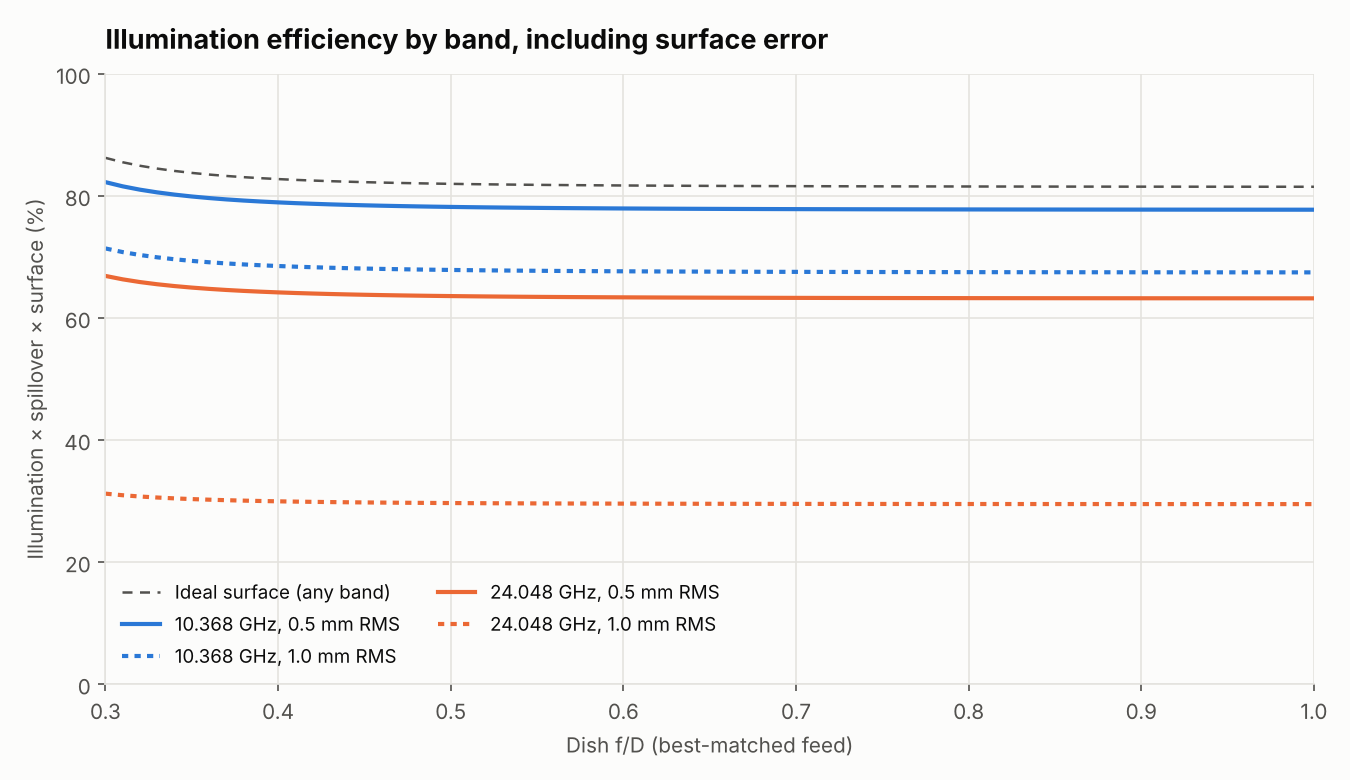
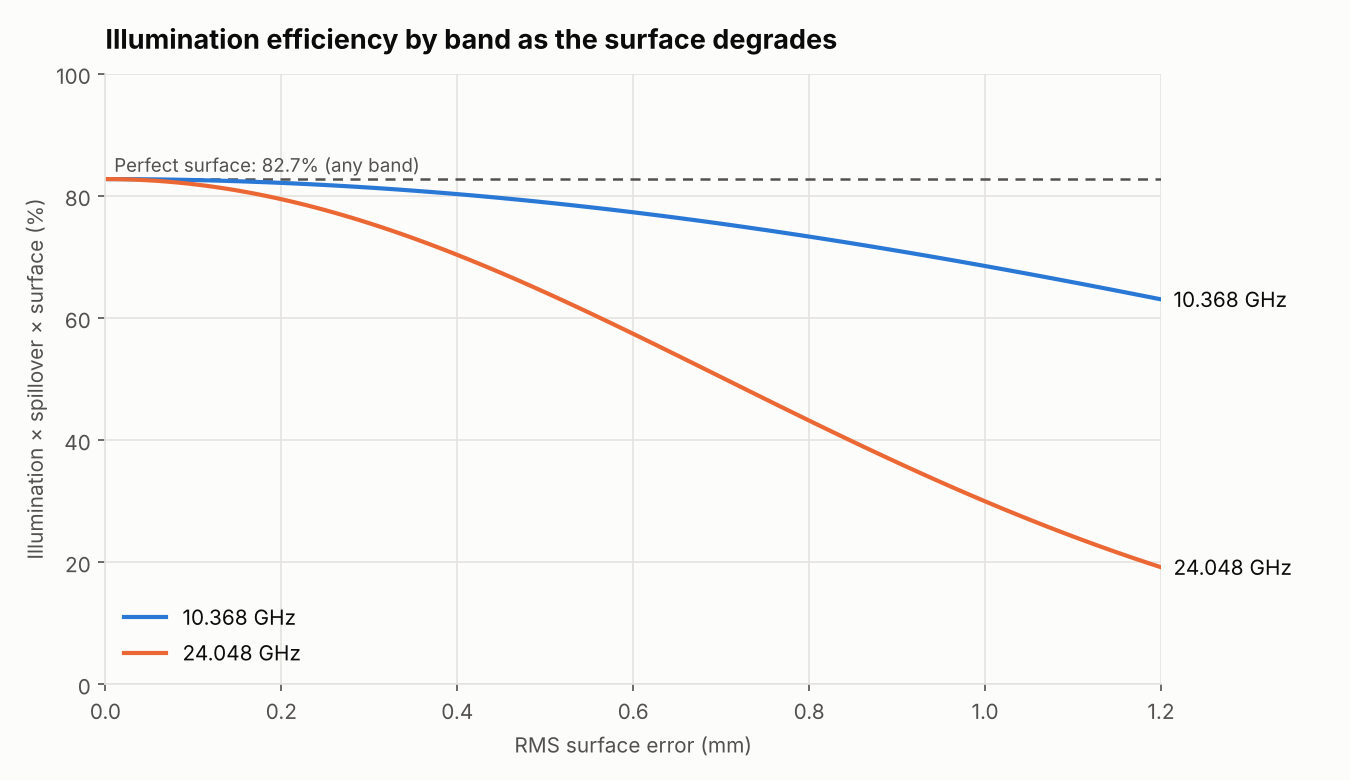
Reframe f/D analysis for prime-focus dishes; add blockage model and offset vs prime-focus comparison
Claude-Session: https://claude.ai/code/session_01UT9Wmn24kQZdNkudeefJNH

diff --git a/make_report.py b/make_report.py
@@ -126,8 +126,8 @@ def chart_illum_vs_fd():
                 markersize=8, markeredgecolor=SURFACE, markeredgewidth=2)
     env = [dc.best_feed_n(fd)[1] * 100 for fd in FD]
     ax.plot(FD, env, color=INK2, linewidth=1.2, linestyle=(0, (4, 3)), label="Best cos^n feed at each f/D")
-    style(ax, "Illumination × spillover efficiency vs. dish f/D (same on every band)",
-          "Dish f/D (offset dish: equivalent f/D the feed sees)", "Efficiency (%)")
+    style(ax, "Prime-focus dishes: illumination × spillover vs. f/D (same on every band)",
+          "Prime-focus dish f/D", "Efficiency (%)")
     ax.set_xlim(0.30, 1.0)
     ax.set_ylim(40, 90)
     ax.legend(frameon=False, loc="lower right", labelcolor=INK, fontsize=9)
@@ -137,22 +137,60 @@ def chart_illum_vs_fd():
 
 
 def chart_net_eff_by_band():
+    eps = np.linspace(0, 1.2, 121)
+    illum = dc.best_feed_n(0.40)[1]
     fig, ax = plt.subplots(figsize=(9, 5.2), facecolor=SURFACE)
-    best = np.array([dc.best_feed_n(fd)[1] for fd in FD])
-    ax.plot(FD, best * 100, color=INK2, linewidth=1.2, linestyle=(0, (4, 3)), label="Ideal surface (any band)")
+    ax.axhline(illum * 100, color=INK2, linewidth=1.2, linestyle=(0, (4, 3)))
+    ax.text(0.01, illum * 100 + 1.2, f"Perfect surface: {illum:.1%} (any band)", color=INK2, fontsize=9)
     for f, color in ((10.368, BLUE), (24.048, ORANGE)):
-        for rms, ls in ((0.5, "-"), (1.0, (0, (1.5, 1.5)))):
-            factor = 10 ** (-dc.ruze_loss_db(rms, f) / 10)
-            ax.plot(FD, best * factor * 100, color=color, linewidth=2, linestyle=ls,
-                    label=f"{f} GHz, {rms} mm RMS")
-    style(ax, "Illumination efficiency by band, including surface error",
-          "Dish f/D (best-matched feed)", "Illumination × spillover × surface (%)")
-    ax.set_xlim(0.30, 1.0)
+        y = [illum * 10 ** (-dc.ruze_loss_db(e, f) / 10) * 100 for e in eps]
+        ax.plot(eps, y, color=color, linewidth=2, label=f"{f} GHz")
+        ax.annotate(f"{f} GHz", (eps[-1], y[-1]), xytext=(6, 0), textcoords="offset points",
+                    va="center", color=INK, fontsize=10)
+    style(ax, "Illumination efficiency by band as the surface degrades",
+          "RMS surface error (mm)", "Illumination × spillover × surface (%)")
+    ax.set_xlim(0, 1.2)
     ax.set_ylim(0, 100)
-    ax.legend(frameon=False, loc="lower left", labelcolor=INK, fontsize=9, ncol=2)
+    ax.legend(frameon=False, loc="lower left", labelcolor=INK)
     fig.tight_layout()
+    fig.subplots_adjust(right=0.86)
     fig.savefig(ROOT / "images" / "efficiency_by_band.png", dpi=150)
     plt.close(fig)
+
+
+# Offset vs prime-focus planning scenarios. Surface RMS values and OTHER_LOSS_DB are
+# ASSUMPTIONS for illustration -- edit them to match dishes you have measured.
+SCEN_D = 0.75            # dish diameter, m
+FEED_BLOCK_WL = 3.0      # prime-focus feed shadow diameter, in wavelengths
+OTHER_LOSS_DB = 0.7      # phase error, cross-pol, feed loss, struts (lumped)
+SCENARIOS = [
+    # name, geometry, dish f/D, feed designed for f/D, RMS mm
+    ("Offset TV dish, pressed steel, stock-style feed", "offset", 0.70, 0.70, 0.60),
+    ("Prime focus, spun aluminum, f/D 0.40, matched feed", "prime", 0.40, 0.40, 0.25),
+    ("Prime focus, spun aluminum, f/D 0.31, feed for 0.40", "prime", 0.31, 0.40, 0.25),
+    ("Prime focus, spun aluminum, f/D 0.31, deep-dish feed", "prime", 0.31, 0.31, 0.25),
+    ("Prime focus, mesh/homebrew, f/D 0.45, matched feed", "prime", 0.45, 0.45, 1.00),
+]
+
+
+def scenario_table() -> str:
+    other = 10 ** (-OTHER_LOSS_DB / 10)
+    t = ("| Dish | RMS (assumed) | Illum. × spill | Blockage 10 / 24 | Net eff. 10 GHz | Net eff. 24 GHz "
+         "| Gain 10.368 | Gain 24.048 |\n|---|---|---|---|---|---|---|---|\n")
+    for name, geom, fd, feed_fd, rms in SCENARIOS:
+        n, _ = dc.best_feed_n(feed_fd)
+        illum = dc.illumination_efficiency(n, fd)
+        cells, blocks = [], []
+        for f in BANDS:
+            blk = 1.0 if geom == "offset" else dc.blockage_efficiency(FEED_BLOCK_WL * dc.wavelength_m(f), SCEN_D)
+            blocks.append(blk)
+            eff = illum * blk * other * 10 ** (-dc.ruze_loss_db(rms, f) / 10)
+            cells.append((eff, dc.gain_dbi(SCEN_D, f, eff)))
+        t += (f"| {name} | {rms:.2f} mm | {illum:.1%} | {blocks[0]:.1%} / {blocks[1]:.1%} | "
+              f"{cells[0][0]:.1%} | {cells[1][0]:.1%} | {cells[0][1]:.2f} | {cells[1][1]:.2f} |\n")
+    t += (f"\nAll rows: {SCEN_D} m aperture, {OTHER_LOSS_DB} dB lumped for phase error, cross-pol, feed loss "
+          f"and struts, feed shadow {FEED_BLOCK_WL:.0f}λ across. Gains in dBi.")
+    return t
 
 
 def efficiency_band_table() -> str:
@@ -176,11 +214,12 @@ def main():
         "### 24 GHz (24.048 GHz, λ = {:.2f} mm) — gain in dBi\n\n{}\n\n"
         "### Surface-error (Ruze) loss\n\n{}\n\n"
         "### Surface tolerance for a given loss budget\n\n{}\n\n"
-        "### Illumination efficiency by band (best-matched feed)\n\n{}\n\n"
-        "### Feed f/D mismatch example (feed for f/D 0.40 on an f/D 0.31 dish)\n\n{}"
+        "### Illumination efficiency by band (prime focus, best-matched feed)\n\n{}\n\n"
+        "### Feed f/D mismatch example (prime focus: feed for f/D 0.40 on an f/D 0.31 dish)\n\n{}\n\n"
+        "### Offset vs. prime focus: planning comparison\n\n{}"
     ).format(dc.wavelength_m(10.368) * 1000, gain_table(10.368),
              dc.wavelength_m(24.048) * 1000, gain_table(24.048),
-             ruze_table(), tolerance_table(), efficiency_band_table(), feed_table())
+             ruze_table(), tolerance_table(), efficiency_band_table(), feed_table(), scenario_table())
     readme = ROOT / "README.md"
     text = readme.read_text()
     text = re.sub(r"(<!-- TABLES:START -->\n).*?(<!-- TABLES:END -->)",

diff --git a/dishcalc.py b/dishcalc.py
@@ -92,6 +92,15 @@ def net_efficiency(f_over_d: float, freq_ghz: float, rms_mm: float, n: float | N
     return eff * 10 ** (-ruze_loss_db(rms_mm, freq_ghz) / 10)
 
 
+def blockage_efficiency(block_diameter_m: float, diameter_m: float) -> float:
+    """Central-blockage efficiency for a prime-focus dish: (1 - (Db/D)^2)^2.
+
+    Counts the feed/horn shadow only (no struts). Offset dishes have ~no blockage: use 1.0.
+    A feed scaled to the band is smaller at higher frequency, so blockage costs less there.
+    """
+    return (1 - (block_diameter_m / diameter_m) ** 2) ** 2
+
+
 def feed_mismatch_loss_db(dish_fd: float, feed_designed_fd: float) -> float:
     """Loss (dB) of a feed optimized for feed_designed_fd, used on a dish_fd dish,
     compared with the best cos^n feed for that dish."""

diff --git a/tests/test_dishcalc.py b/tests/test_dishcalc.py
@@ -48,3 +48,10 @@ def test_illumination_band_independent_and_net_by_band():
     assert 0.80 < dc.illumination_efficiency(2.0, 0.40) < 0.84
     # Surface error makes the same dish less efficient at 24 GHz than at 10 GHz.
     assert dc.net_efficiency(0.6, 24.048, 0.5) < dc.net_efficiency(0.6, 10.368, 0.5)
+
+
+def test_blockage_smaller_at_24ghz():
+    d = 0.75
+    b10 = dc.blockage_efficiency(3 * dc.wavelength_m(10.368), d)
+    b24 = dc.blockage_efficiency(3 * dc.wavelength_m(24.048), d)
+    assert 0.95 < b10 < b24 < 1.0

diff --git a/README.md b/README.md
@@ -1,6 +1,6 @@
 # Offset Microwave Dish Comparisons
 
-How much gain do common amateur microwave dishes (about 0.6–0.9 m) give on **10 GHz** and **24 GHz**? This repo answers that and shows what eats into it: aperture efficiency, feed illumination, and reflector surface accuracy.
+How much gain do common amateur microwave dishes (about 0.6–0.9 m) give on **10 GHz** and **24 GHz**? This repo answers that for surplus **offset** satellite-TV dishes and compares them with **prime-focus** dishes. It also shows what eats into the gain: aperture efficiency, feed illumination and blockage, and reflector surface accuracy.
 
 It includes a small Python calculator (`dishcalc.py`), a script that regenerates every table and chart in this README (`make_report.py`), and tests that pin the results to known values.
 
@@ -11,8 +11,10 @@ It includes a small Python calculator (`dishcalc.py`), a script that regenerates
 - **The same dish gains 7.31 dB going from 10.368 to 24.048 GHz**, as long as its efficiency holds up.
 - **Efficiency usually doesn't hold up at 24 GHz.** Surface-error loss grows with frequency squared, so a given surface costs about **5.4×** as many dB at 24 GHz as at 10 GHz. A pressed-steel dish with 0.5–0.8 mm RMS error barely notices it on 10 GHz (0.2–0.5 dB) but loses 1.1–2.8 dB on 24 GHz.
 - **Illumination efficiency is pure geometry.** A feed scaled to each band gives the same illumination efficiency on 10 and 24 GHz. The difference between bands comes from the surface, not the feed.
+- **Offset dishes are all alike in the ways that matter here.** They're built for satellite TV and use much the same feed geometry, so f/D isn't a useful way to compare them. What separates one from another is mainly size and surface accuracy.
+- **Prime-focus dishes vary much more.** f/D, how well the feed matches it, and surface quality (spun aluminum vs. mesh or homebrew) all swing widely. That's where the f/D and feed analysis below matters.
 - **Plan on 50–65% total aperture efficiency** for a real amateur dish. Figures of 70–75% describe illumination alone, before spillover, blockage, surface error and feed loss.
-- **A mismatched feed costs a few tenths of a dB.** A feed designed for f/D 0.40 on an f/D 0.31 dish loses about 0.4–0.6 dB. Moving the feed doesn't fix it; a feed with a wider beam does.
+- **On a prime-focus dish, a mismatched feed costs a few tenths of a dB.** A feed designed for f/D 0.40 on an f/D 0.31 dish loses about 0.4–0.6 dB. Moving the feed doesn't fix it; a feed with a wider beam does.
 
 ## Quick start
 
@@ -56,7 +58,15 @@ where ε is the RMS surface error. The loss scales with ε² and f². The formul
 
 ![Surface-error loss vs frequency](images/ruze_loss_vs_freq.png)
 
-### Feed illumination
+### Feed blockage (prime focus)
+
+A prime-focus feed sits in front of the aperture and casts a shadow. For a feed shadow of diameter D_b, the blockage efficiency is approximately
+
+$$\eta_{blk} = \left(1 - \frac{D_b^2}{D^2}\right)^2$$
+
+This counts the feed only, not the struts. A feed scaled to the band shrinks with wavelength, so on a 0.75 m dish a 3λ feed costs about 0.12 dB at 10 GHz but only about 0.02 dB at 24 GHz. Offset dishes have essentially no blockage.
+
+### Feed illumination (prime focus)
 
 The feed is modeled as an ideal **cosⁿ** pattern at the focus of a prime-focus paraboloid. The illumination (taper) × spillover efficiency is the classic Silver/Kraus integral:
 
@@ -65,19 +75,33 @@ $$\eta_{ill} = \cot^2\frac{\psi_0}{2}\left|\int_0^{\psi_0}\sqrt{2(n+1)\cos^n\psi
 - **It doesn't depend on frequency.** The result is geometry only, so a feed scaled to each band gives the same curve on 10 and 24 GHz.
 - **Mismatched feeds:** a feed built for a shallower dish (higher f/D) has too narrow a beam for a deeper one. It under-illuminates the rim, which raises edge taper and lowers spillover, and efficiency falls.
 
-![Illumination efficiency vs f/D](images/illumination_vs_fd.png)
+![Prime-focus illumination efficiency vs f/D](images/illumination_vs_fd.png)
 
-The net efficiency by band multiplies the best-matched illumination efficiency by the Ruze surface factor. That's where 10 and 24 GHz separate:
+Multiplying the illumination efficiency by the Ruze surface factor shows where 10 and 24 GHz separate. This holds for either dish type:
 
 ![Illumination efficiency by band](images/efficiency_by_band.png)
 
-## Offset dishes
+## Offset vs. prime-focus dishes
 
-The repo name says *offset* because most dishes in this size range are surplus satellite-TV offset reflectors.
+### Offset (satellite-TV) dishes
+
+Most dishes in this size range are surplus offset reflectors built for satellite TV.
 
 - **Diameter:** use the **projected aperture**, which for a typical offset dish is close to circular with a diameter about equal to the reflector's **width** (minor axis). Don't use the longer vertical dimension, and don't average the two axes; both overstate the gain.
-- **f/D:** the illumination curves use the **equivalent f/D the feed sees**, meaning the angle the offset section subtends from the focus. That is not the parent paraboloid's f/D. Offset TV dishes usually look like f/D ≈ 0.6–0.9 to the feed.
-- **Blockage:** an offset geometry has little or none, which the model already ignores.
+- **f/D doesn't help compare them.** Every offset TV dish is designed around much the same feed geometry, so the f/D curves below aren't useful for choosing between offset dishes. In the comparison table, the offset row just assumes a feed matched to the dish.
+- **No blockage:** the feed sits outside the aperture.
+- **What differs between them:** mostly size and the accuracy of the pressed-steel or SMC surface, which matters far more on 24 GHz than on 10 GHz.
+
+### Prime-focus dishes
+
+Prime-focus dishes are where f/D and feed choice matter.
+
+- **f/D varies widely**, from deep dishes around 0.25–0.35 to shallow ones around 0.5–0.6.
+- **Feeds have to be matched to f/D.** A feed that suits one dish can under- or over-illuminate another. The W1GHZ antenna book has measured efficiency for the common amateur feed designs.
+- **Surface quality ranges widely,** from precision spun aluminum to mesh and homebrew reflectors.
+- **The feed blocks part of the aperture,** which costs a little gain, less on 24 GHz than on 10 GHz.
+
+The *Offset vs. prime focus* table under Results puts example dishes of both kinds side by side. Its surface-error and lumped-loss values are **assumptions for illustration**. Edit `SCENARIOS`, `OTHER_LOSS_DB` and `FEED_BLOCK_WL` in `make_report.py` to match dishes you've measured.
 
 ## Results
 
@@ -124,7 +148,7 @@ At 10.4 GHz add about 0.03 dB.
 | 1 dB | 1.10 mm | 0.48 mm |
 | 3 dB | 1.91 mm | 0.82 mm |
 
-### Illumination efficiency by band (best-matched feed)
+### Illumination efficiency by band (prime focus, best-matched feed)
 
 | Dish f/D | Ideal (any band) | 10.368 GHz @ 0.5 mm | 10.368 GHz @ 1.0 mm | 24.048 GHz @ 0.5 mm | 24.048 GHz @ 1.0 mm |
 |---|---|---|---|---|---|
@@ -134,7 +158,7 @@ At 10.4 GHz add about 0.03 dB.
 | 0.60 | 81.7% | 77.9% | 67.6% | 63.4% | 29.6% |
 | 0.80 | 81.5% | 77.8% | 67.5% | 63.2% | 29.5% |
 
-### Feed f/D mismatch example (feed for f/D 0.40 on an f/D 0.31 dish)
+### Feed f/D mismatch example (prime focus: feed for f/D 0.40 on an f/D 0.31 dish)
 
 | Case | Illumination × spillover efficiency |
 |---|---|
@@ -143,12 +167,24 @@ At 10.4 GHz add about 0.03 dB.
 | Feed optimized for f/D 0.31 (cos^0.75) | 85.5% |
 
 The 0.40 feed loses **0.43 dB** on the 0.31 dish compared with its own 0.40 dish, and **0.57 dB** compared with the best feed for f/D 0.31. Rim half-angle is 77.8° at f/D 0.31 vs 64.0° at f/D 0.40.
+
+### Offset vs. prime focus: planning comparison
+
+| Dish | RMS (assumed) | Illum. × spill | Blockage 10 / 24 | Net eff. 10 GHz | Net eff. 24 GHz | Gain 10.368 | Gain 24.048 |
+|---|---|---|---|---|---|---|---|
+| Offset TV dish, pressed steel, stock-style feed | 0.60 mm | 81.6% | 100.0% / 100.0% | 64.9% | 48.2% | 36.34 | 42.36 |
+| Prime focus, spun aluminum, f/D 0.40, matched feed | 0.25 mm | 82.7% | 97.3% / 99.5% | 67.7% | 65.8% | 36.53 | 43.71 |
+| Prime focus, spun aluminum, f/D 0.31, feed for 0.40 | 0.25 mm | 75.0% | 97.3% / 99.5% | 61.4% | 59.6% | 36.10 | 43.28 |
+| Prime focus, spun aluminum, f/D 0.31, deep-dish feed | 0.25 mm | 85.5% | 97.3% / 99.5% | 70.0% | 68.0% | 36.67 | 43.85 |
+| Prime focus, mesh/homebrew, f/D 0.45, matched feed | 1.00 mm | 82.2% | 97.3% / 99.5% | 56.4% | 25.2% | 35.74 | 39.55 |
+
+All rows: 0.75 m aperture, 0.7 dB lumped for phase error, cross-pol, feed loss and struts, feed shadow 3λ across. Gains in dBi.
 <!-- TABLES:END -->
 
 ## Assumptions and limits
 
 - **Gain tables:** the efficiency you choose is the *total* aperture efficiency. Surface loss is shown separately, so subtract it if your η doesn't already include it.
-- **Illumination model:** an ideal cosⁿ feed with no phase-center error, cross-polarization, feed loss, back radiation or blockage. Real feeds land somewhat below these curves. The model is optimistic for very deep dishes (f/D below about 0.35), so the charts start at f/D 0.30 and feed exponents are kept at n ≥ 0.5.
+- **Illumination model:** an ideal cosⁿ prime-focus feed with no phase-center error, cross-polarization, feed loss or back radiation. Blockage is modeled separately and covers the feed only. Real feeds land somewhat below these curves. The model is optimistic for very deep dishes (f/D below about 0.35), so the charts start at f/D 0.30 and feed exponents are kept at n ≥ 0.5.
 - **Ruze loss:** assumes small, random, uncorrelated surface errors.
 - **Beamwidth:** HPBW uses k = 70. Tapered illumination widens the beam slightly.
 
@@ -156,7 +192,7 @@ The 0.40 feed loses **0.43 dB** on the 0.31 dish compared with its own 0.40 dish
 
 | Path | Purpose |
 |---|---|
-| `dishcalc.py` | Library and command-line calculator: gain, HPBW, Ruze loss, surface tolerance, cosⁿ illumination, feed mismatch |
+| `dishcalc.py` | Library and command-line calculator: gain, HPBW, Ruze loss, surface tolerance, cosⁿ illumination, feed blockage, feed mismatch |
 | `make_report.py` | Regenerates the README tables and the PNGs in `images/` |
 | `tests/test_dishcalc.py` | pytest checks against known values |
 | `images/` | Generated charts |
